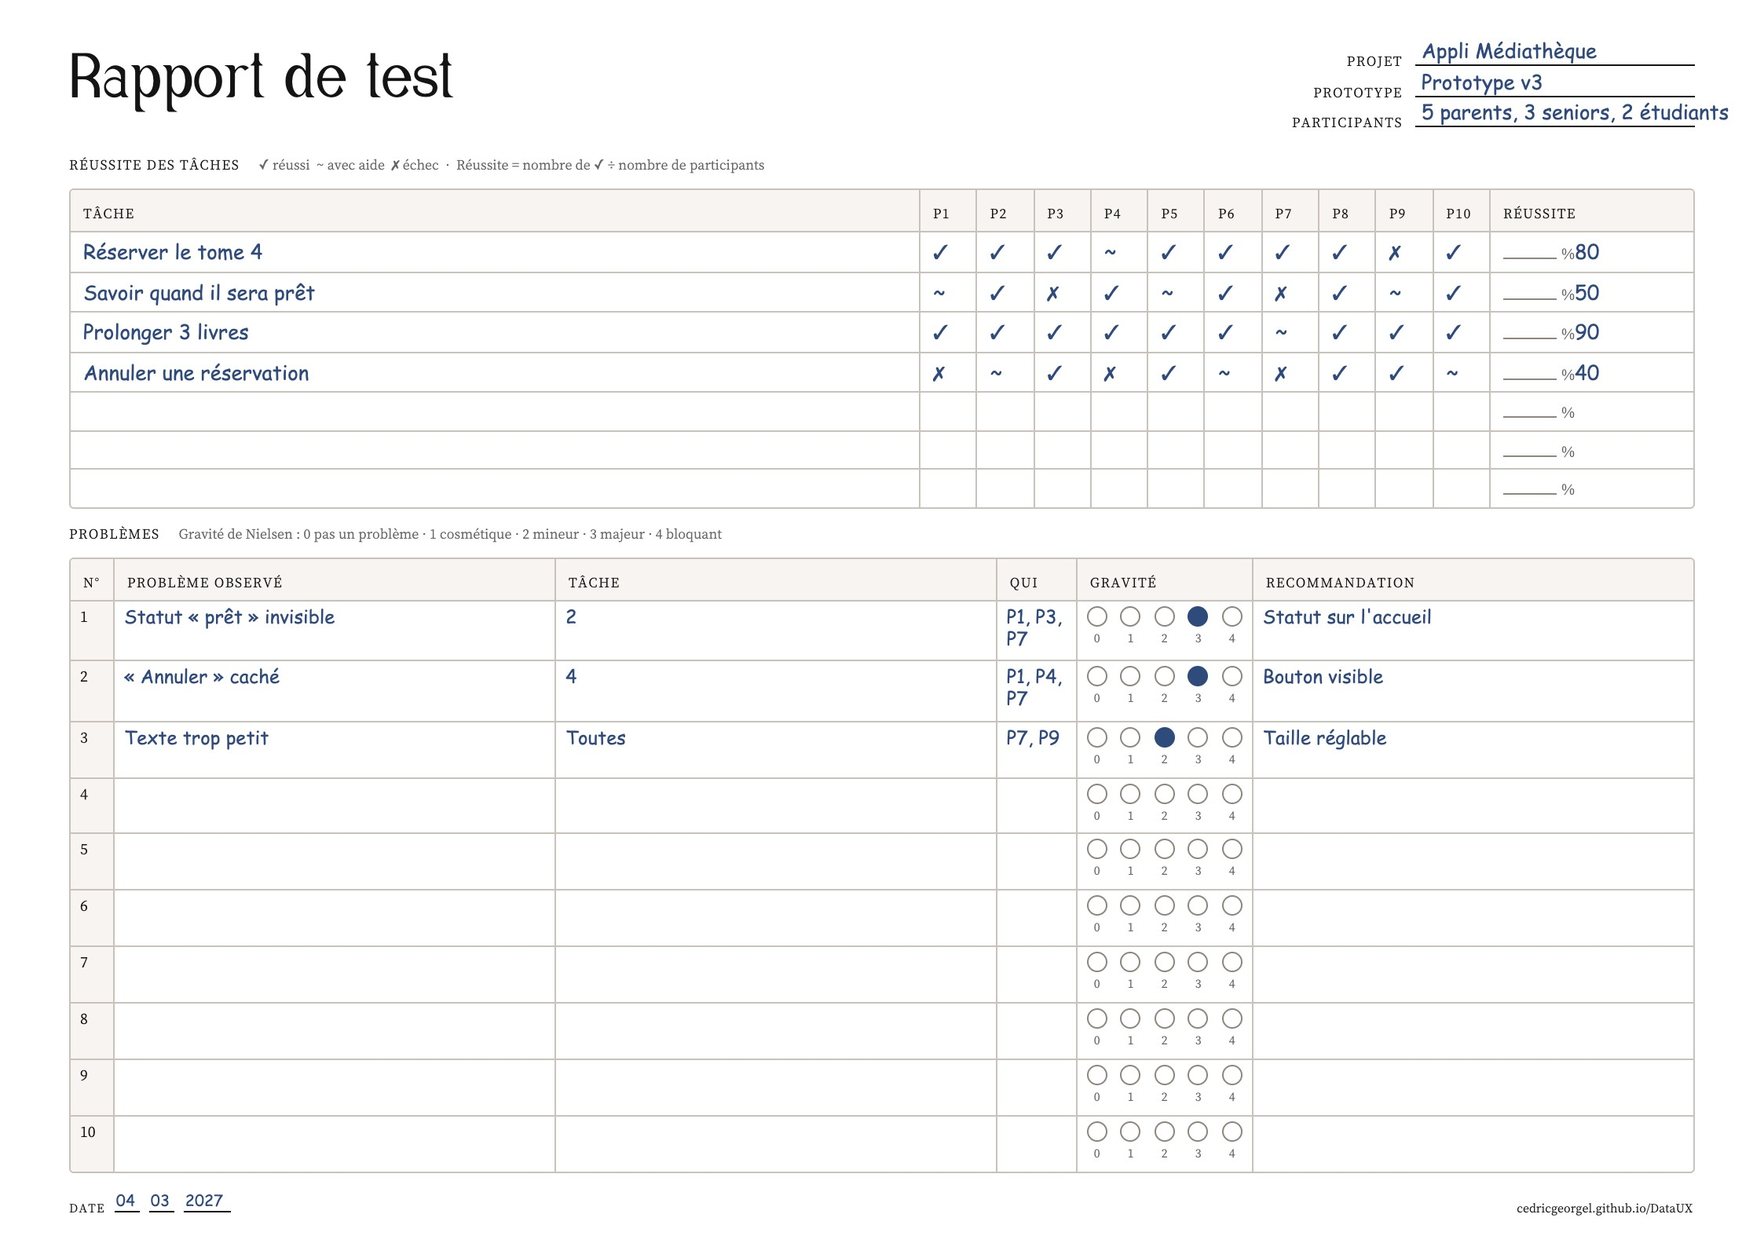
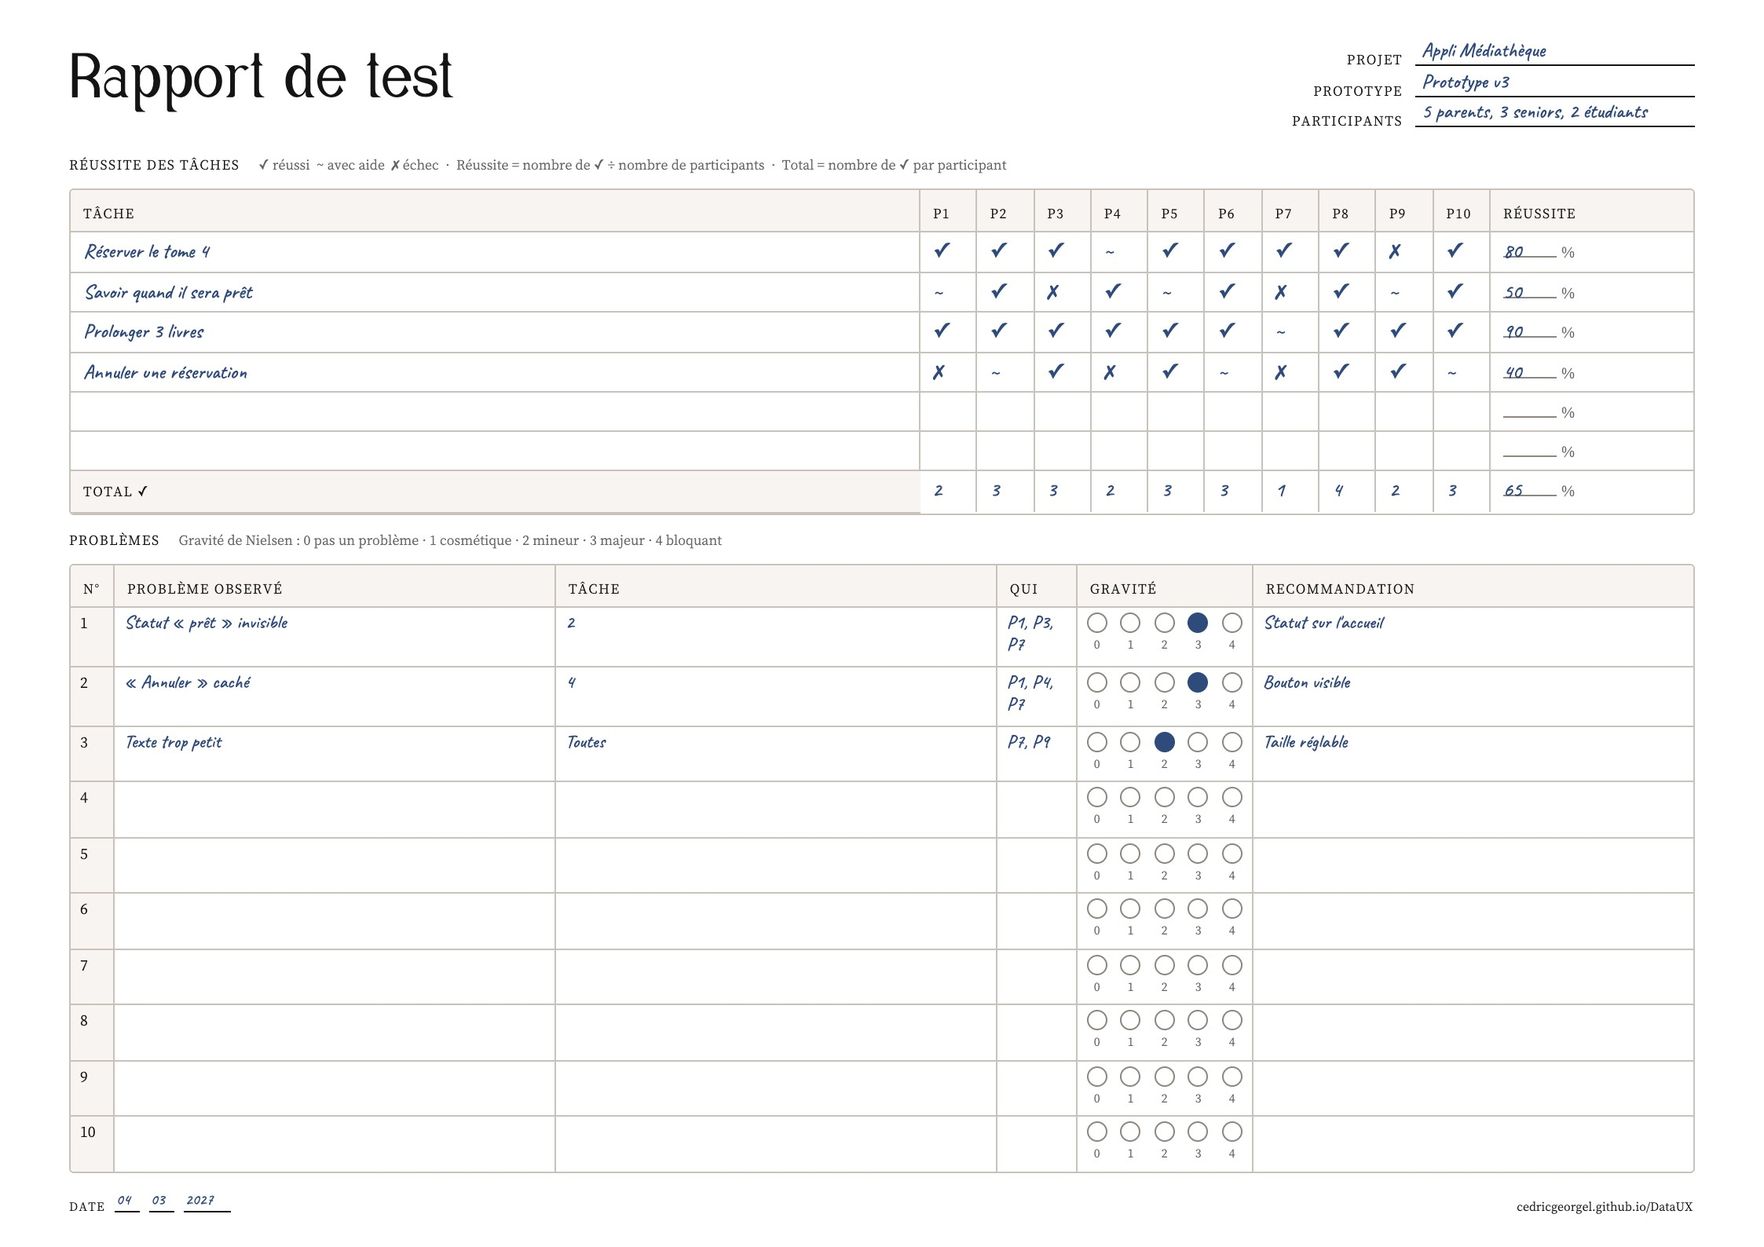
Ressources : rapport de test, ligne Total par participant (rainbow spreadsheet)

diff --git a/site/ressources/rapport-de-test.html b/site/ressources/rapport-de-test.html
@@ -175,18 +175,21 @@ a{color:var(--accent,#9f6b53)}a:hover{color:#6e4a38}
 .root .nl s{font-family:var(--font-display,Laze,'Cactus Classical Serif',serif)}
 /* en-têtes de tableau en surface (retours V2) */
 .root th{background:var(--surface,#f7f4f1)}
+/* ligne Total : réussites par participant (rainbow spreadsheet) */
+.root tr.tot th{vertical-align:middle}
+.root tr.tot th,.root tr.tot td{border-top:1.5px solid var(--line-strong,#8f867e)}
 
 .root{margin:24px auto;outline:1px solid #c9c2bb}
 @media print{html{background:none}.root{margin:0;outline:0}}
 </style>
-<link rel="stylesheet" href="edit.css?v=365f4f3f">
-<script src="vendor/html-to-image.js?v=365f4f3f" defer></script>
-<script src="edit.js?v=365f4f3f" defer></script>
+<link rel="stylesheet" href="edit.css?v=9d2b8be5">
+<script src="vendor/html-to-image.js?v=9d2b8be5" defer></script>
+<script src="edit.js?v=9d2b8be5" defer></script>
 </head>
 <body>
 <div class="root">
 <div class="hd"><h1>Rapport de test</h1><div class="fld"><span><b>Projet</b><i></i></span><span><b>Prototype</b><i></i></span><span><b>Participants</b><i></i></span></div></div>
-<div class="main"><div class="sub">Réussite des tâches <em>✓ réussi&nbsp; ~ avec aide&nbsp; ✗ échec&nbsp;&nbsp;·&nbsp;&nbsp;Réussite = nombre de ✓ ÷ nombre de participants</em></div><div style="flex: none; display: flex"><div class="tw " style=""><table><thead><tr><th style="width: 524px">Tâche</th><th style="width: 100%">P1</th><th style="width: 100%">P2</th><th style="width: 100%">P3</th><th style="width: 100%">P4</th><th style="width: 100%">P5</th><th style="width: 100%">P6</th><th style="width: 100%">P7</th><th style="width: 100%">P8</th><th style="width: 100%">P9</th><th style="width: 100%">P10</th><th style="width: 113px">Réussite</th></tr></thead><tbody><tr><td></td><td></td><td></td><td></td><td></td><td></td><td></td><td></td><td></td><td></td><td></td><td><span class="pct"></span>%</td></tr><tr><td></td><td></td><td></td><td></td><td></td><td></td><td></td><td></td><td></td><td></td><td></td><td><span class="pct"></span>%</td></tr><tr><td></td><td></td><td></td><td></td><td></td><td></td><td></td><td></td><td></td><td></td><td></td><td><span class="pct"></span>%</td></tr><tr><td></td><td></td><td></td><td></td><td></td><td></td><td></td><td></td><td></td><td></td><td></td><td><span class="pct"></span>%</td></tr><tr><td></td><td></td><td></td><td></td><td></td><td></td><td></td><td></td><td></td><td></td><td></td><td><span class="pct"></span>%</td></tr><tr><td></td><td></td><td></td><td></td><td></td><td></td><td></td><td></td><td></td><td></td><td></td><td><span class="pct"></span>%</td></tr><tr><td></td><td></td><td></td><td></td><td></td><td></td><td></td><td></td><td></td><td></td><td></td><td><span class="pct"></span>%</td></tr></tbody></table></div></div><div class="sub">Problèmes <em>Gravité de Nielsen : 0 pas un problème · 1 cosmétique · 2 mineur · 3 majeur · 4 bloquant</em></div><div class="tw compact " style=""><table><thead><tr><th style="width: 11px">N°</th><th style="width: 100%">Problème observé</th><th style="width: 100%">Tâche</th><th style="width: 34px">Qui</th><th style="width: 95px">Gravité</th><th style="width: 100%">Recommandation</th></tr></thead><tbody><tr><td class="n">1</td><td></td><td></td><td></td><td><span class="os"><span class="o"><i></i><em>0</em></span><span class="o"><i></i><em>1</em></span><span class="o"><i></i><em>2</em></span><span class="o"><i></i><em>3</em></span><span class="o"><i></i><em>4</em></span></span></td><td></td></tr><tr><td class="n">2</td><td></td><td></td><td></td><td><span class="os"><span class="o"><i></i><em>0</em></span><span class="o"><i></i><em>1</em></span><span class="o"><i></i><em>2</em></span><span class="o"><i></i><em>3</em></span><span class="o"><i></i><em>4</em></span></span></td><td></td></tr><tr><td class="n">3</td><td></td><td></td><td></td><td><span class="os"><span class="o"><i></i><em>0</em></span><span class="o"><i></i><em>1</em></span><span class="o"><i></i><em>2</em></span><span class="o"><i></i><em>3</em></span><span class="o"><i></i><em>4</em></span></span></td><td></td></tr><tr><td class="n">4</td><td></td><td></td><td></td><td><span class="os"><span class="o"><i></i><em>0</em></span><span class="o"><i></i><em>1</em></span><span class="o"><i></i><em>2</em></span><span class="o"><i></i><em>3</em></span><span class="o"><i></i><em>4</em></span></span></td><td></td></tr><tr><td class="n">5</td><td></td><td></td><td></td><td><span class="os"><span class="o"><i></i><em>0</em></span><span class="o"><i></i><em>1</em></span><span class="o"><i></i><em>2</em></span><span class="o"><i></i><em>3</em></span><span class="o"><i></i><em>4</em></span></span></td><td></td></tr><tr><td class="n">6</td><td></td><td></td><td></td><td><span class="os"><span class="o"><i></i><em>0</em></span><span class="o"><i></i><em>1</em></span><span class="o"><i></i><em>2</em></span><span class="o"><i></i><em>3</em></span><span class="o"><i></i><em>4</em></span></span></td><td></td></tr><tr><td class="n">7</td><td></td><td></td><td></td><td><span class="os"><span class="o"><i></i><em>0</em></span><span class="o"><i></i><em>1</em></span><span class="o"><i></i><em>2</em></span><span class="o"><i></i><em>3</em></span><span class="o"><i></i><em>4</em></span></span></td><td></td></tr><tr><td class="n">8</td><td></td><td></td><td></td><td><span class="os"><span class="o"><i></i><em>0</em></span><span class="o"><i></i><em>1</em></span><span class="o"><i></i><em>2</em></span><span class="o"><i></i><em>3</em></span><span class="o"><i></i><em>4</em></span></span></td><td></td></tr><tr><td class="n">9</td><td></td><td></td><td></td><td><span class="os"><span class="o"><i></i><em>0</em></span><span class="o"><i></i><em>1</em></span><span class="o"><i></i><em>2</em></span><span class="o"><i></i><em>3</em></span><span class="o"><i></i><em>4</em></span></span></td><td></td></tr><tr><td class="n">10</td><td></td><td></td><td></td><td><span class="os"><span class="o"><i></i><em>0</em></span><span class="o"><i></i><em>1</em></span><span class="o"><i></i><em>2</em></span><span class="o"><i></i><em>3</em></span><span class="o"><i></i><em>4</em></span></span></td><td></td></tr></tbody></table></div></div>
+<div class="main"><div class="sub">Réussite des tâches <em>✓ réussi&nbsp; ~ avec aide&nbsp; ✗ échec&nbsp;&nbsp;·&nbsp;&nbsp;Réussite = nombre de ✓ ÷ nombre de participants&nbsp;&nbsp;·&nbsp;&nbsp;Total = nombre de ✓ par participant</em></div><div style="flex: none; display: flex"><div class="tw " style=""><table><thead><tr><th style="width: 524px">Tâche</th><th style="width: 100%">P1</th><th style="width: 100%">P2</th><th style="width: 100%">P3</th><th style="width: 100%">P4</th><th style="width: 100%">P5</th><th style="width: 100%">P6</th><th style="width: 100%">P7</th><th style="width: 100%">P8</th><th style="width: 100%">P9</th><th style="width: 100%">P10</th><th style="width: 113px">Réussite</th></tr></thead><tbody><tr><td></td><td></td><td></td><td></td><td></td><td></td><td></td><td></td><td></td><td></td><td></td><td><span class="pct"></span>%</td></tr><tr><td></td><td></td><td></td><td></td><td></td><td></td><td></td><td></td><td></td><td></td><td></td><td><span class="pct"></span>%</td></tr><tr><td></td><td></td><td></td><td></td><td></td><td></td><td></td><td></td><td></td><td></td><td></td><td><span class="pct"></span>%</td></tr><tr><td></td><td></td><td></td><td></td><td></td><td></td><td></td><td></td><td></td><td></td><td></td><td><span class="pct"></span>%</td></tr><tr><td></td><td></td><td></td><td></td><td></td><td></td><td></td><td></td><td></td><td></td><td></td><td><span class="pct"></span>%</td></tr><tr><td></td><td></td><td></td><td></td><td></td><td></td><td></td><td></td><td></td><td></td><td></td><td><span class="pct"></span>%</td></tr><tr class="tot"><th>Total ✓</th><td></td><td></td><td></td><td></td><td></td><td></td><td></td><td></td><td></td><td></td><td><span class="pct"></span>%</td></tr></tbody></table></div></div><div class="sub">Problèmes <em>Gravité de Nielsen : 0 pas un problème · 1 cosmétique · 2 mineur · 3 majeur · 4 bloquant</em></div><div class="tw compact " style=""><table><thead><tr><th style="width: 11px">N°</th><th style="width: 100%">Problème observé</th><th style="width: 100%">Tâche</th><th style="width: 34px">Qui</th><th style="width: 95px">Gravité</th><th style="width: 100%">Recommandation</th></tr></thead><tbody><tr><td class="n">1</td><td></td><td></td><td></td><td><span class="os"><span class="o"><i></i><em>0</em></span><span class="o"><i></i><em>1</em></span><span class="o"><i></i><em>2</em></span><span class="o"><i></i><em>3</em></span><span class="o"><i></i><em>4</em></span></span></td><td></td></tr><tr><td class="n">2</td><td></td><td></td><td></td><td><span class="os"><span class="o"><i></i><em>0</em></span><span class="o"><i></i><em>1</em></span><span class="o"><i></i><em>2</em></span><span class="o"><i></i><em>3</em></span><span class="o"><i></i><em>4</em></span></span></td><td></td></tr><tr><td class="n">3</td><td></td><td></td><td></td><td><span class="os"><span class="o"><i></i><em>0</em></span><span class="o"><i></i><em>1</em></span><span class="o"><i></i><em>2</em></span><span class="o"><i></i><em>3</em></span><span class="o"><i></i><em>4</em></span></span></td><td></td></tr><tr><td class="n">4</td><td></td><td></td><td></td><td><span class="os"><span class="o"><i></i><em>0</em></span><span class="o"><i></i><em>1</em></span><span class="o"><i></i><em>2</em></span><span class="o"><i></i><em>3</em></span><span class="o"><i></i><em>4</em></span></span></td><td></td></tr><tr><td class="n">5</td><td></td><td></td><td></td><td><span class="os"><span class="o"><i></i><em>0</em></span><span class="o"><i></i><em>1</em></span><span class="o"><i></i><em>2</em></span><span class="o"><i></i><em>3</em></span><span class="o"><i></i><em>4</em></span></span></td><td></td></tr><tr><td class="n">6</td><td></td><td></td><td></td><td><span class="os"><span class="o"><i></i><em>0</em></span><span class="o"><i></i><em>1</em></span><span class="o"><i></i><em>2</em></span><span class="o"><i></i><em>3</em></span><span class="o"><i></i><em>4</em></span></span></td><td></td></tr><tr><td class="n">7</td><td></td><td></td><td></td><td><span class="os"><span class="o"><i></i><em>0</em></span><span class="o"><i></i><em>1</em></span><span class="o"><i></i><em>2</em></span><span class="o"><i></i><em>3</em></span><span class="o"><i></i><em>4</em></span></span></td><td></td></tr><tr><td class="n">8</td><td></td><td></td><td></td><td><span class="os"><span class="o"><i></i><em>0</em></span><span class="o"><i></i><em>1</em></span><span class="o"><i></i><em>2</em></span><span class="o"><i></i><em>3</em></span><span class="o"><i></i><em>4</em></span></span></td><td></td></tr><tr><td class="n">9</td><td></td><td></td><td></td><td><span class="os"><span class="o"><i></i><em>0</em></span><span class="o"><i></i><em>1</em></span><span class="o"><i></i><em>2</em></span><span class="o"><i></i><em>3</em></span><span class="o"><i></i><em>4</em></span></span></td><td></td></tr><tr><td class="n">10</td><td></td><td></td><td></td><td><span class="os"><span class="o"><i></i><em>0</em></span><span class="o"><i></i><em>1</em></span><span class="o"><i></i><em>2</em></span><span class="o"><i></i><em>3</em></span><span class="o"><i></i><em>4</em></span></span></td><td></td></tr></tbody></table></div></div>
 <div class="ft"><span class="d">Date <i style="width:16px"></i><i style="width:16px"></i><i style="width:30px"></i></span><span>cedricgeorgel.github.io/DataUX</span></div>
 </div>
 </body>

diff --git a/site/ressources/edit.js b/site/ressources/edit.js
@@ -265,6 +265,12 @@
   // Rapport de test : ✓ ~ ✗ choisis dans un menu, réussite calculée
   var marks = [], markPick = null;
   var rapport = /rapport-de-test/.test(PATH) ? rowsOf(root.querySelector("table")) : null;
+  // Ligne « Total ✓ » (rainbow spreadsheet) : réussites par participant, calculées
+  var rapportTot = rapport && rapport.length && rapport[rapport.length - 1].classList.contains("tot") ? rapport.pop() : null;
+  if (rapportTot) {
+    for (var tc = 1; tc < rapportTot.children.length - 1; tc++) lockCalc(rapportTot.children[tc]);
+    lockCalc(rapportTot.lastElementChild.querySelector(".pct"));
+  }
   // La valeur est dans un span : la matrice de compétences l'entoure d'un petit rond, comme sa légende
   function setMark(b, v) { b.innerHTML = ""; if (v) { var t = mk("span"); t.textContent = v; b.appendChild(t); } b.setAttribute("data-v", v || ""); b.setAttribute("aria-label", v ? "Résultat " + v + ", changer" : "Choisir un résultat"); }
   function closeMarks() { if (markPick) { markPick.remove(); markPick = null; } }
@@ -356,6 +362,15 @@
       tr.querySelectorAll(".mk").forEach(function (b) { var v = b.getAttribute("data-v"); if (v) { n++; if (v === "✓") ok++; } });
       var p = tr.lastElementChild.querySelector(".pct"); if (p) put(p, n ? String(Math.round(ok * 100 / n)) : "");
     });
+    if (rapportTot) {
+      var all = 0, alln = 0;
+      for (var c = 1; c < rapportTot.children.length - 1; c++) {
+        var okc = 0, nc = 0;
+        rapport.forEach(function (tr) { var b = tr.children[c] && tr.children[c].querySelector(".mk"), v = b && b.getAttribute("data-v"); if (v) { nc++; if (v === "✓") okc++; } });
+        put(rapportTot.children[c], nc ? String(okc) : ""); all += okc; alln += nc;
+      }
+      put(rapportTot.lastElementChild.querySelector(".pct"), alln ? String(Math.round(all * 100 / alln)) : "");
+    }
     swatches();
     if (ECO) drawLinks();
   }

diff --git a/site/ressources/benchmark-grille-comparative.html b/site/ressources/benchmark-grille-comparative.html
@@ -52,9 +52,9 @@ th+th,td+td,td[rowspan]+td{border-left:1px solid var(--line,#c9c2bb)}
 .root{margin:24px auto;outline:1px solid #c9c2bb}
 @media print{html{background:none}.root{margin:0;outline:0}}
 </style>
-<link rel="stylesheet" href="edit.css?v=365f4f3f">
-<script src="vendor/html-to-image.js?v=365f4f3f" defer></script>
-<script src="edit.js?v=365f4f3f" defer></script>
+<link rel="stylesheet" href="edit.css?v=9d2b8be5">
+<script src="vendor/html-to-image.js?v=9d2b8be5" defer></script>
+<script src="edit.js?v=9d2b8be5" defer></script>
 </head>
 <body>
 <div class="root" style="width: 1123px; height: 794px">

diff --git a/site/ressources/business-model-canvas.html b/site/ressources/business-model-canvas.html
@@ -52,9 +52,9 @@ th+th,td+td,td[rowspan]+td{border-left:1px solid var(--line,#c9c2bb)}
 .root{margin:24px auto;outline:1px solid #c9c2bb}
 @media print{html{background:none}.root{margin:0;outline:0}}
 </style>
-<link rel="stylesheet" href="edit.css?v=365f4f3f">
-<script src="vendor/html-to-image.js?v=365f4f3f" defer></script>
-<script src="edit.js?v=365f4f3f" defer></script>
+<link rel="stylesheet" href="edit.css?v=9d2b8be5">
+<script src="vendor/html-to-image.js?v=9d2b8be5" defer></script>
+<script src="edit.js?v=9d2b8be5" defer></script>
 </head>
 <body>
 <div class="root" style="width: 1123px; height: 794px">

diff --git a/site/ressources/cadrage-uxr.html b/site/ressources/cadrage-uxr.html
@@ -52,9 +52,9 @@ th+th,td+td,td[rowspan]+td{border-left:1px solid var(--line,#c9c2bb)}
 .root{margin:24px auto;outline:1px solid #c9c2bb}
 @media print{html{background:none}.root{margin:0;outline:0}}
 </style>
-<link rel="stylesheet" href="edit.css?v=365f4f3f">
-<script src="vendor/html-to-image.js?v=365f4f3f" defer></script>
-<script src="edit.js?v=365f4f3f" defer></script>
+<link rel="stylesheet" href="edit.css?v=9d2b8be5">
+<script src="vendor/html-to-image.js?v=9d2b8be5" defer></script>
+<script src="edit.js?v=9d2b8be5" defer></script>
 </head>
 <body>
 <div class="root" style="width: 1123px; height: 794px">

diff --git a/site/ressources/carte-d-empathie.html b/site/ressources/carte-d-empathie.html
@@ -52,9 +52,9 @@ th+th,td+td,td[rowspan]+td{border-left:1px solid var(--line,#c9c2bb)}
 .root{margin:24px auto;outline:1px solid #c9c2bb}
 @media print{html{background:none}.root{margin:0;outline:0}}
 </style>
-<link rel="stylesheet" href="edit.css?v=365f4f3f">
-<script src="vendor/html-to-image.js?v=365f4f3f" defer></script>
-<script src="edit.js?v=365f4f3f" defer></script>
+<link rel="stylesheet" href="edit.css?v=9d2b8be5">
+<script src="vendor/html-to-image.js?v=9d2b8be5" defer></script>
+<script src="edit.js?v=9d2b8be5" defer></script>
 </head>
 <body>
 <div class="root" style="width: 1123px; height: 794px">

diff --git a/site/ressources/comment-pourrions-nous-how-might-we.html b/site/ressources/comment-pourrions-nous-how-might-we.html
@@ -52,9 +52,9 @@ th+th,td+td,td[rowspan]+td{border-left:1px solid var(--line,#c9c2bb)}
 .root{margin:24px auto;outline:1px solid #c9c2bb}
 @media print{html{background:none}.root{margin:0;outline:0}}
 </style>
-<link rel="stylesheet" href="edit.css?v=365f4f3f">
-<script src="vendor/html-to-image.js?v=365f4f3f" defer></script>
-<script src="edit.js?v=365f4f3f" defer></script>
+<link rel="stylesheet" href="edit.css?v=9d2b8be5">
+<script src="vendor/html-to-image.js?v=9d2b8be5" defer></script>
+<script src="edit.js?v=9d2b8be5" defer></script>
 </head>
 <body>
 <div class="root" style="width: 1123px; height: 794px">

diff --git a/site/ressources/grille-d-observation.html b/site/ressources/grille-d-observation.html
@@ -52,9 +52,9 @@ th+th,td+td,td[rowspan]+td{border-left:1px solid var(--line,#c9c2bb)}
 .root{margin:24px auto;outline:1px solid #c9c2bb}
 @media print{html{background:none}.root{margin:0;outline:0}}
 </style>
-<link rel="stylesheet" href="edit.css?v=365f4f3f">
-<script src="vendor/html-to-image.js?v=365f4f3f" defer></script>
-<script src="edit.js?v=365f4f3f" defer></script>
+<link rel="stylesheet" href="edit.css?v=9d2b8be5">
+<script src="vendor/html-to-image.js?v=9d2b8be5" defer></script>
+<script src="edit.js?v=9d2b8be5" defer></script>
 </head>
 <body>
 <div class="root" style="width: 1123px; height: 794px">

diff --git a/site/ressources/grille-de-prise-de-notes.html b/site/ressources/grille-de-prise-de-notes.html
@@ -52,9 +52,9 @@ th+th,td+td,td[rowspan]+td{border-left:1px solid var(--line,#c9c2bb)}
 .root{margin:24px auto;outline:1px solid #c9c2bb}
 @media print{html{background:none}.root{margin:0;outline:0}}
 </style>
-<link rel="stylesheet" href="edit.css?v=365f4f3f">
-<script src="vendor/html-to-image.js?v=365f4f3f" defer></script>
-<script src="edit.js?v=365f4f3f" defer></script>
+<link rel="stylesheet" href="edit.css?v=9d2b8be5">
+<script src="vendor/html-to-image.js?v=9d2b8be5" defer></script>
+<script src="edit.js?v=9d2b8be5" defer></script>
 </head>
 <body>
 <div class="root" style="width: 794px; height: 1123px">

diff --git a/site/ressources/grille-de-scoring-ice.html b/site/ressources/grille-de-scoring-ice.html
@@ -52,9 +52,9 @@ th+th,td+td,td[rowspan]+td{border-left:1px solid var(--line,#c9c2bb)}
 .root{margin:24px auto;outline:1px solid #c9c2bb}
 @media print{html{background:none}.root{margin:0;outline:0}}
 </style>
-<link rel="stylesheet" href="edit.css?v=365f4f3f">
-<script src="vendor/html-to-image.js?v=365f4f3f" defer></script>
-<script src="edit.js?v=365f4f3f" defer></script>
+<link rel="stylesheet" href="edit.css?v=9d2b8be5">
+<script src="vendor/html-to-image.js?v=9d2b8be5" defer></script>
+<script src="edit.js?v=9d2b8be5" defer></script>
 </head>
 <body>
 <div class="root" style="width: 1123px; height: 794px">

diff --git a/site/ressources/guide-d-entretien-utilisateur.html b/site/ressources/guide-d-entretien-utilisateur.html
@@ -55,9 +55,9 @@ th+th,td+td,td[rowspan]+td{border-left:1px solid var(--line,#c9c2bb)}
 .root{margin:24px auto;outline:1px solid #c9c2bb}
 @media print{html{background:none}.root{margin:0;outline:0}}
 </style>
-<link rel="stylesheet" href="edit.css?v=365f4f3f">
-<script src="vendor/html-to-image.js?v=365f4f3f" defer></script>
-<script src="edit.js?v=365f4f3f" defer></script>
+<link rel="stylesheet" href="edit.css?v=9d2b8be5">
+<script src="vendor/html-to-image.js?v=9d2b8be5" defer></script>
+<script src="edit.js?v=9d2b8be5" defer></script>
 </head>
 <body>
 <div class="root" style="width: 794px; height: 1123px">

diff --git a/site/ressources/heart.html b/site/ressources/heart.html
@@ -52,9 +52,9 @@ th+th,td+td,td[rowspan]+td{border-left:1px solid var(--line,#c9c2bb)}
 .root{margin:24px auto;outline:1px solid #c9c2bb}
 @media print{html{background:none}.root{margin:0;outline:0}}
 </style>
-<link rel="stylesheet" href="edit.css?v=365f4f3f">
-<script src="vendor/html-to-image.js?v=365f4f3f" defer></script>
-<script src="edit.js?v=365f4f3f" defer></script>
+<link rel="stylesheet" href="edit.css?v=9d2b8be5">
+<script src="vendor/html-to-image.js?v=9d2b8be5" defer></script>
+<script src="edit.js?v=9d2b8be5" defer></script>
 </head>
 <body>
 <div class="root" style="width: 1123px; height: 794px">
